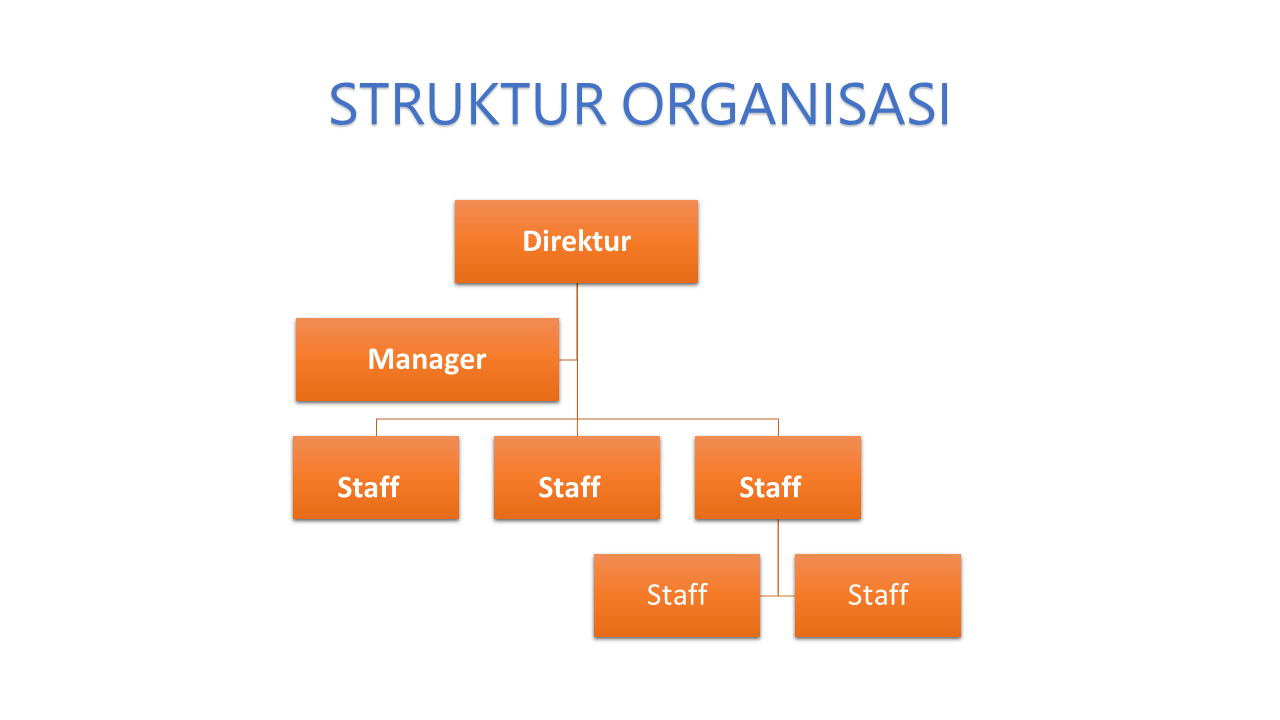
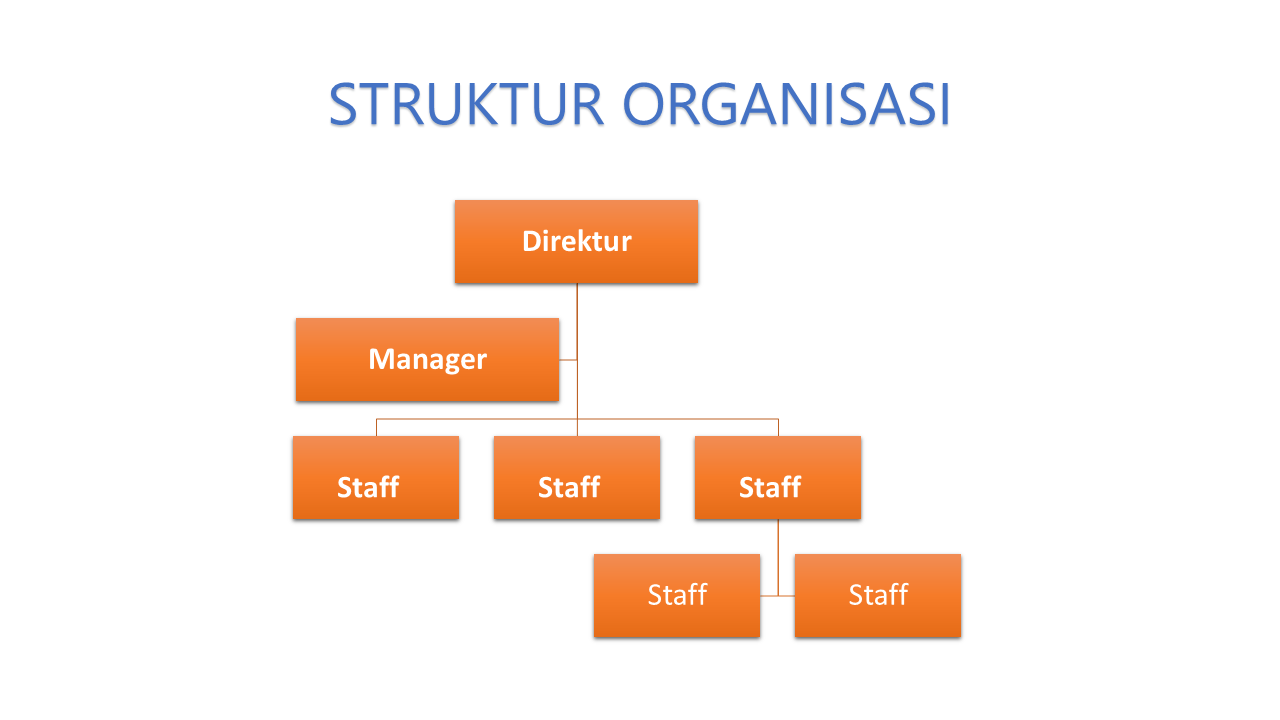
M

diff --git a/materi-powerpoint.html b/materi-powerpoint.html
@@ -619,53 +619,58 @@
                     <div id="sesi1Menengah" class="accordion-collapse collapse"
                       data-bs-parent="#accordionPraktikPowerPointSesi1">
                       <div class="accordion-body">
-                        <strong>Bagian 1 — Struktur Organisasi (SmartArt
-                          Hierarchy)</strong>
-                        <ol>
-                          <li>
-                            <strong>Layout</strong> → <strong>Title Only</strong> → judul: <strong>STRUKTUR
-                              ORGANISASI</strong>.
-                          </li>
-                          <li>
-                            Tab <strong>Insert</strong> →
-                            <strong>SmartArt</strong> → pilih
-                            <strong>Hierarchy</strong> → pilih
-                            <strong>Organization Chart</strong>.
-                          </li>
-                          <li>
-                            Klik kotak paling atas → ketik:
-                            <strong>Direktur</strong>.
-                          </li>
-                          <li>
-                            Klik kotak level 2 → ketik:
-                            <strong>Manager</strong>. Ulangi untuk manager
-                            kedua.
-                          </li>
-                          <li>
-                            Klik kotak level 3 → ketik:
-                            <strong>Staff</strong> untuk masing-masing
-                            manager.
-                          </li>
-                          <li>
-                            Jika ingin menambah kotak: klik kanan pada
-                            kotak → <strong>Add Shape</strong> → pilih
-                            <strong>Add Shape Below</strong> atau
-                            <strong>Add Assistant</strong>.
-                          </li>
-                          <li>
-                            Jika ingin ubah warna: Tab <strong>SmartArt Design</strong> →
-                            <strong>Change Colors</strong> → pilih skema
-                            warna.
-                          </li>
-                          <li>
-                            Jika ingin ubah Tema: Tab <strong>SmartArt Styles</strong> → pilih tema
-                            warna. <br>
-                            Hasil:
-                            <div class="my-3">
-                              <img src="assets/img/Bagian-1-Struktur-Organisasi.png" alt="">
-                            </div>
-                          </li>
-                        </ol>
+                        <!-- Bagian 1 -->
+                        <strong>Bagian 1 — Struktur Organisasi</strong>
+                        <div class="row">
+                          <div class="col-md-6">
+                            <ol>
+                              <li>
+                                <strong>Layout</strong> → <strong>Title Only</strong> → judul: <strong>STRUKTUR
+                                  ORGANISASI</strong>.
+                              </li>
+                              <li>
+                                Tab <strong>Insert</strong> →
+                                <strong>SmartArt</strong> → pilih
+                                <strong>Hierarchy</strong> → pilih
+                                <strong>Organization Chart</strong>.
+                              </li>
+                              <li>
+                                Klik kotak paling atas → ketik:
+                                <strong>Direktur</strong>.
+                              </li>
+                              <li>
+                                Klik kotak level 2 → ketik:
+                                <strong>Manager</strong>. Ulangi untuk manager
+                                kedua.
+                              </li>
+                              <li>
+                                Klik kotak level 3 → ketik:
+                                <strong>Staff</strong> untuk masing-masing
+                                manager.
+                              </li>
+                              <li>
+                                Jika ingin menambah kotak: klik kanan pada
+                                kotak → <strong>Add Shape</strong> → pilih
+                                <strong>Add Shape Below</strong> atau
+                                <strong>Add Assistant</strong>.
+                              </li>
+                              <li>
+                                Jika ingin ubah warna: Tab <strong>SmartArt Design</strong> →
+                                <strong>Change Colors</strong> → pilih skema
+                                warna.
+                              </li>
+                              <li>
+                                Jika ingin ubah Tema: Tab <strong>SmartArt Styles</strong> → pilih tema
+                                warna.
+                              </li>
+                            </ol>
+                          </div>
+                          <div class="col-md-6">
+                            <img src="assets/img/Struktur-Organisasi/Slide1.PNG" alt="" class="img-fluid">
+                          </div>
+                        </div>
+
+                        <!-- Bagian 2 -->
                         <strong class="mt-3 d-block">Bagian 2 — Diagram Proses Bisnis (Shapes +
                           Panah)</strong>
                         <ol>
@@ -713,6 +718,7 @@
                             </div>
                           </li>
                         </ol>
+                        <!-- Bagian 3 -->
                         <strong class="mt-3 d-block">Bagian 3 — SmartArt Cycle</strong>
                         <ol>
                           <li>Buat slide baru: klik panah kecil <strong>New Slide</strong> → <strong>Title Only</strong>
